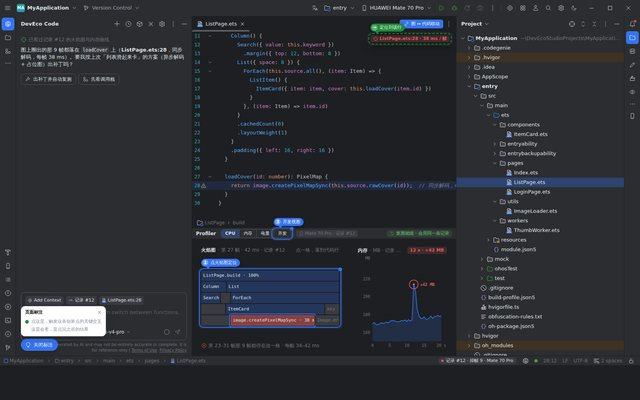
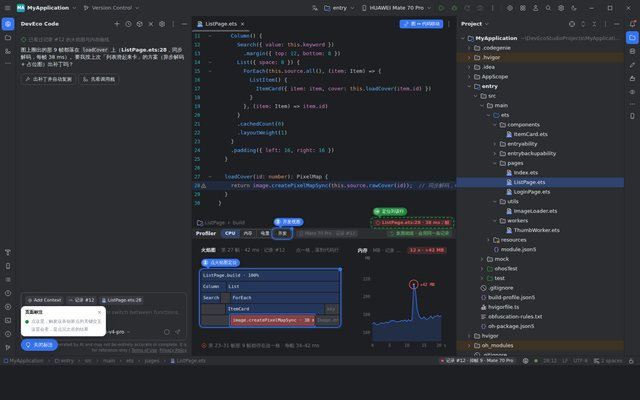
demo 10 新增并发视图：主线程等 TaskPool、排队、锁竞争自动标出，点一段落到代码行，结论可交给调优；定位条挪到面包屑行
Claude-Session: https://claude.ai/code/session_01HsLiuXw9GEzdrquzWL26SL

Changed region(s): [[0.5625, 0.51, 0.7188, 0.57], [0.5625, 0.06, 0.7188, 0.12]]

diff --git a/demos/10-visual-profiling/index.html b/demos/10-visual-profiling/index.html
@@ -20,8 +20,12 @@
   .dm-split.v.prof-split{grid-template-rows:minmax(0,1fr) 320px}
   .ed-top{display:flex;flex-direction:column;min-height:0}
   .ed-top .code-wrap{flex:1;min-height:0}
-  .code-wrap .dm-pill.loc-pill{position:absolute;right:16px;top:8px;z-index:3;box-shadow:var(--ui-shadow);display:inline-flex;width:auto;height:18px}
-  .loc-pill svg{width:12px;height:12px}
+  /* 定位条放在面包屑这一行的右端，不压代码 */
+  .crumb-row{flex:none;display:flex;align-items:center;gap:8px;height:26px;padding-right:10px;border-top:1px solid var(--ui-border);min-width:0}
+  .crumb-row .breadcrumbs{flex:1;min-width:0;border-top:0;overflow:hidden;white-space:nowrap}
+  .crumb-row .dm-pill.loc-pill{flex:0 1 auto;min-width:0;max-width:62%;display:inline-flex;height:18px;overflow:hidden}
+  .loc-pill svg{width:12px;height:12px;flex:none}
+  .loc-pill #loc-text{min-width:0;overflow:hidden;text-overflow:ellipsis}
   /* Profiler 视图区 */
   .prof{display:flex;flex-direction:column;min-height:0;background:var(--ui-editor-bg)}
   .prof-body{flex:1;display:flex;min-height:0}
@@ -191,8 +195,8 @@
       <div class="tabs" id="tabs"><span class="grow"></span><span class="tab-tools"><span class="toggle on" title="图上选中什么，代码就跳到哪一行"><svg class="i"><use href="#i-link"/></svg>图 ↔ 代码联动</span><button class="abtn" title="Editor Options"><svg class="i"><use href="#i-moreV"/></svg></button></span></div>
       <div class="dm-split v prof-split">
         <div class="ed-top">
-          <div class="code-wrap"><div class="code" id="code" data-for-file="ListPage.ets"></div><div class="code" id="code-il" data-for-file="ImageLoader.ets" hidden></div><div class="code" id="code-tw" data-for-file="ThumbWorker.ets" hidden></div><span class="dm-pill err loc-pill" id="loc-pill"><svg><use href="#i-locate"/></svg><span id="loc-text">ListPage.ets:28 · 38 ms / 帧</span></span></div>
-          <div class="breadcrumbs" id="crumbs"></div>
+          <div class="code-wrap"><div class="code" id="code" data-for-file="ListPage.ets"></div><div class="code" id="code-il" data-for-file="ImageLoader.ets" hidden></div><div class="code" id="code-tw" data-for-file="ThumbWorker.ets" hidden></div></div>
+          <div class="crumb-row"><div class="breadcrumbs" id="crumbs"></div><span class="dm-pill err loc-pill" id="loc-pill"><svg><use href="#i-locate"/></svg><span id="loc-text">ListPage.ets:28 · 38 ms / 帧</span></span></div>
         </div>
         <div class="prof">
           <div class="dm-pane-hd"><b>Profiler</b>
